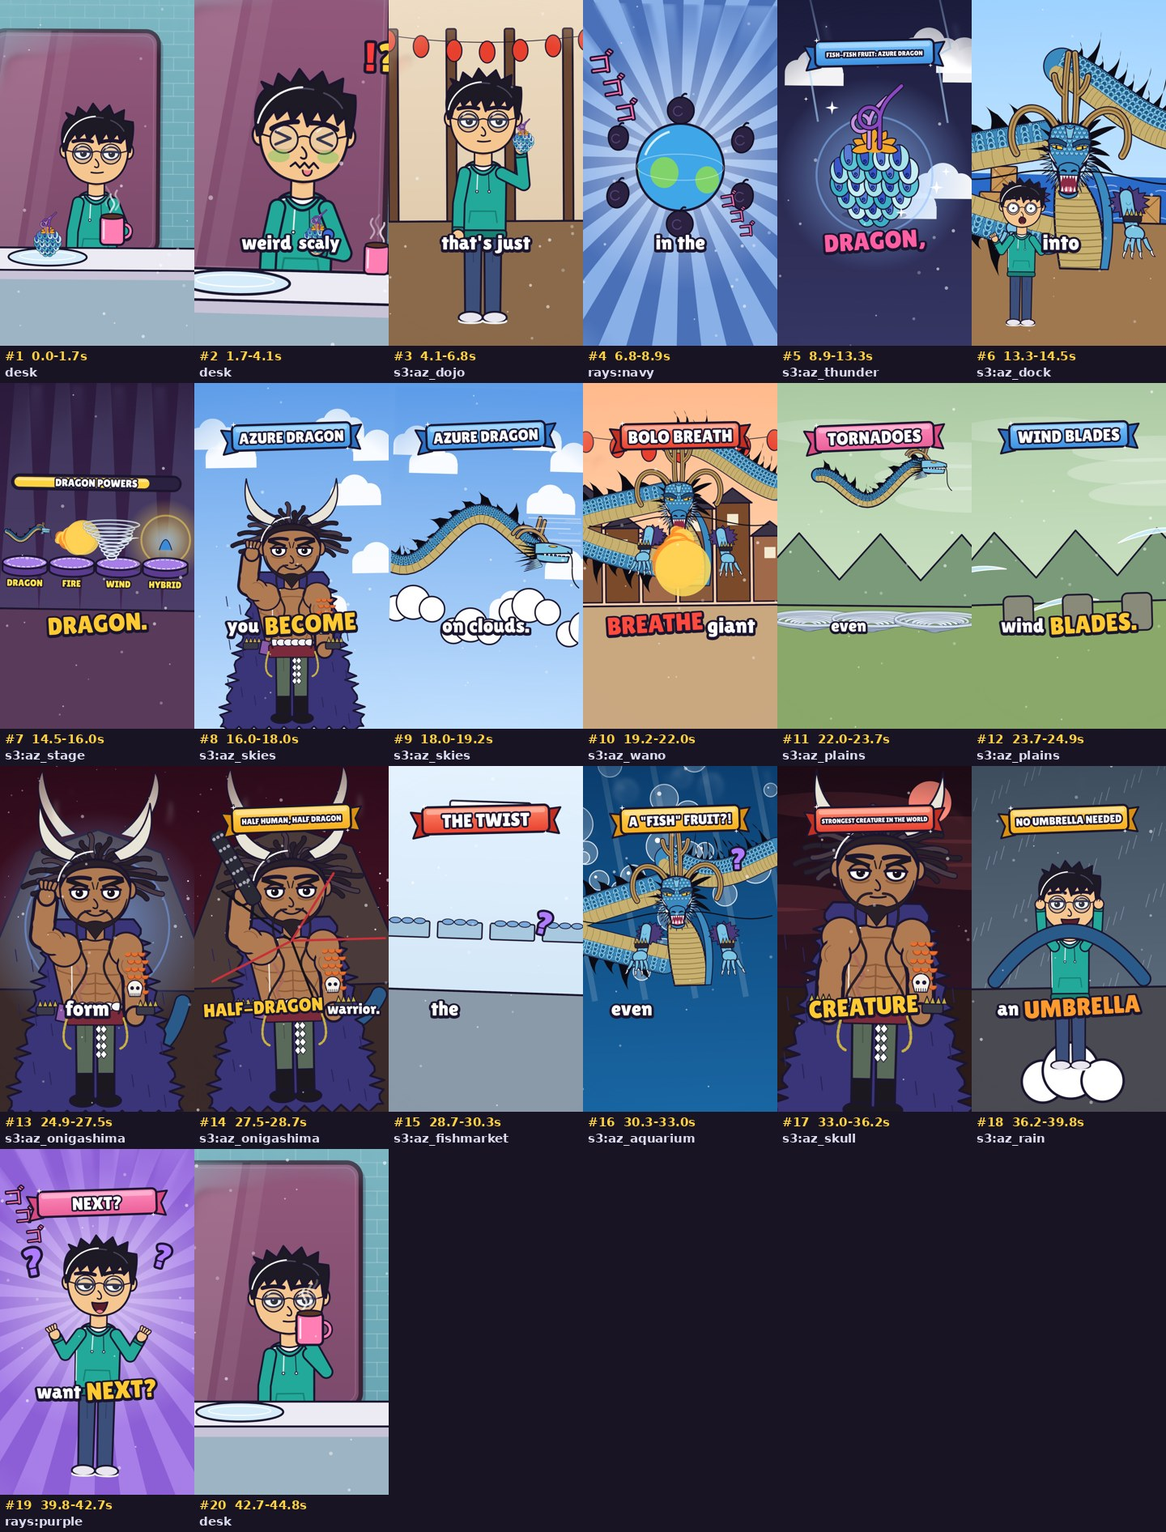
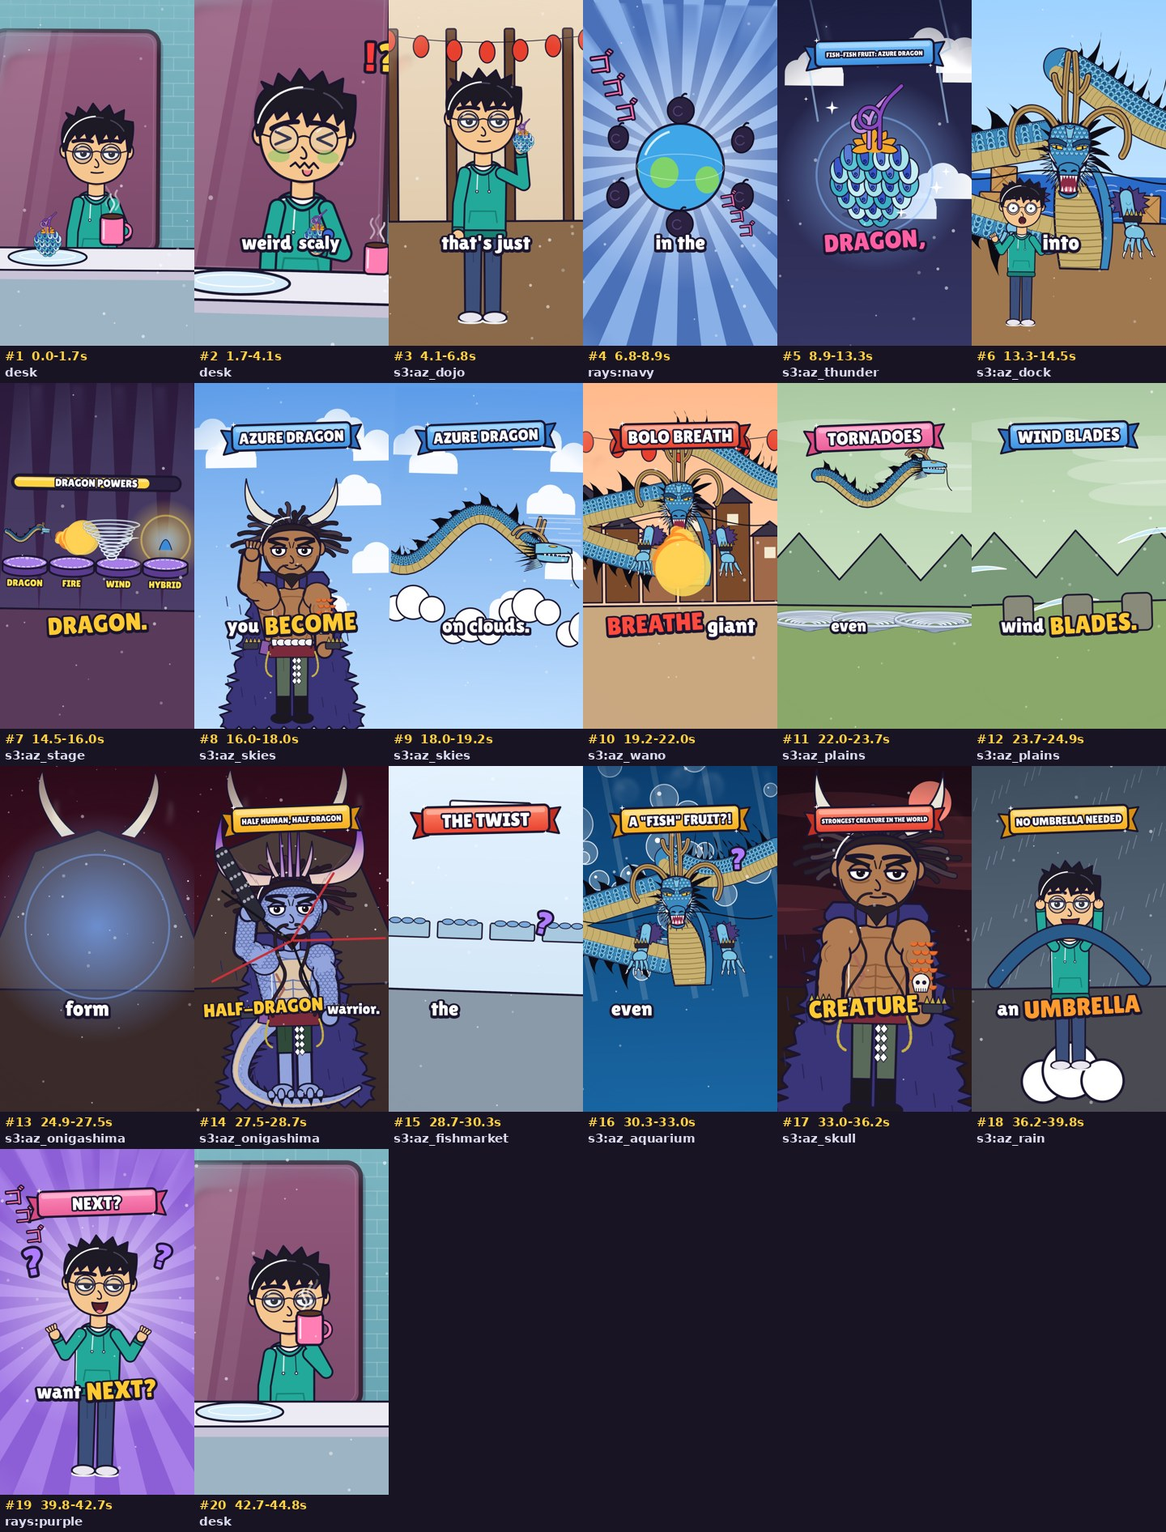
Kaido hybrid form from the user's ref: blue scales, purple-tipped horns and spikes, dragon tail, clawed feet
Claude-Session: https://claude.ai/code/session_01LedSfqc1zbW4UvWfiqXE3c

Changed region(s): [[0.0, 0.5301, 0.1562, 0.7484], [0.1875, 0.5301, 0.3438, 0.7484]]

diff --git a/engine/art.js b/engine/art.js
@@ -217,6 +217,28 @@ export const POSES = {
 // hand / head position of a figure drawn with its feet at (cx, fy), scale s, optionally mirrored
 export function figPoint(lx, ly, cx, fy, s, flip = false) { const dx = (lx + FIG.OX - FIG.W / 2) * s; return [cx + (flip ? -dx : dx), fy + (ly + FIG.OY - FIG.FEET) * s]; }
 
+function scaleFill(x, x0, y0, x1, y1, col, keep = () => true, sz = 30) { // rows of overlapping dragon scales (call inside a clip)
+  for (let r = 0, y = y0; y < y1; r++, y += sz * 0.7) for (let xx = x0 + (r % 2) * sz / 2; xx < x1; xx += sz) { if (!keep(xx, y)) continue;
+    x.beginPath(); x.arc(xx, y, sz * 0.55, 0.05 * Math.PI, 0.95 * Math.PI); x.lineWidth = 5; x.strokeStyle = col; x.stroke(); }
+}
+function dragonTail(x) { // thick scaly tail from behind the hips sweeping down to the ground on his right, dark fin along the top, tan belly
+  const K = [[300, 1040], [300, 1040], [80, 1260], [20, 1500], [230, 1650], [600, 1660], [820, 1570], [820, 1570]], cr = (a, b, c, d, u) => 0.5 * (2 * b + (-a + c) * u + (2 * a - 5 * b + 4 * c - d) * u * u + (-a + 3 * b - 3 * c + d) * u * u * u), pts = [];
+  for (let i = 1; i < K.length - 2; i++) for (let k = 0; k < 8; k++) { const u = k / 8, n = pts.length / 40; pts.push([cr(K[i - 1][0], K[i][0], K[i + 1][0], K[i + 2][0], u), cr(K[i - 1][1], K[i][1], K[i + 1][1], K[i + 2][1], u), 130 * (1 - n) + 16]); }
+  x.lineCap = 'round'; x.lineJoin = 'round';
+  for (let i = 1; i < pts.length; i++) { const [ax, ay, aw] = pts[i - 1], [bx, by] = pts[i], a = Math.atan2(by - ay, bx - ax), nx = -Math.sin(a), ny = Math.cos(a);
+    if (i % 2) { x.beginPath(); x.moveTo(ax - nx * aw * 0.5, ay - ny * aw * 0.5); x.lineTo(ax - nx * aw * 1.0 - Math.cos(a) * 20, ay - ny * aw * 1.0 - Math.sin(a) * 20); x.lineTo(bx - nx * aw * 0.45, by - ny * aw * 0.45); x.closePath(); fs(x, '#2a1f2e', 6); } }
+  for (const [lw, col] of [[22, OL], [0, '#93a4dc']]) for (let i = 1; i < pts.length; i++) { const [ax, ay, aw] = pts[i - 1], [bx, by] = pts[i]; x.beginPath(); x.moveTo(ax, ay); x.lineTo(bx, by); x.lineWidth = aw + lw; x.strokeStyle = col; x.stroke(); }
+  for (let i = 1; i < pts.length; i++) { const [ax, ay, aw] = pts[i - 1], [bx, by] = pts[i], a = Math.atan2(by - ay, bx - ax), nx = -Math.sin(a), ny = Math.cos(a);
+    x.beginPath(); x.moveTo(ax + nx * aw * 0.3, ay + ny * aw * 0.3); x.lineTo(bx + nx * aw * 0.3, by + ny * aw * 0.3); x.lineWidth = aw * 0.3; x.strokeStyle = '#dcc4a8'; x.stroke();
+    if (i % 2 === 0) { x.beginPath(); x.moveTo(bx + nx * aw * 0.05, by + ny * aw * 0.05); x.lineTo(bx + nx * aw * 0.45, by + ny * aw * 0.45); x.lineWidth = 4; x.strokeStyle = '#a88a6a'; x.stroke(); }
+    if (i % 2) { x.beginPath(); x.arc(bx - nx * aw * 0.2, by - ny * aw * 0.2, aw * 0.18, a + 0.3, a + 2.8); x.lineWidth = 4; x.strokeStyle = '#6e7fbe'; x.stroke(); } }
+}
+function clawFoot(x, cx, cy, sd) { // blue scaly dragon foot with three long toes and black talons
+  x.beginPath(); x.ellipse(cx, cy - 10, 70, 40, 0, 0, 7); fs(x, '#93a4dc', 11);
+  for (const [dx, len] of [[-60, 70], [0, 90], [60, 70]]) { const tx = cx + dx * 1.1 + sd * 10, ty = cy + 20;
+    x.beginPath(); x.ellipse(tx, ty, 24, len * 0.45, dx * 0.004, 0, 7); fs(x, '#93a4dc', 9);
+    x.beginPath(); x.moveTo(tx - 16, ty + len * 0.35); x.quadraticCurveTo(tx + 4, ty + len * 0.75, tx + 4, ty + len * 0.85); x.quadraticCurveTo(tx + 14, ty + len * 0.5, tx + 16, ty + len * 0.3); x.closePath(); fs(x, '#14121a', 6); }
+}
 function drawLegs(x, L, pose) {
   const pants = L.pants, shoe = L.shoe;
   if ((POSES[pose] || {}).legs === 'jump') { // tucked mid-air jump (traced from the Snakeman ref): knees flared wide, shins angled in under the body, toes pointing down
@@ -243,6 +265,7 @@ function drawLegs(x, L, pose) {
   if (L.stripedLegs) { x.save(); x.beginPath(); x.rect(x0 + 6, 1060, x1 - x0 - 12, 520); x.clip(); x.fillStyle = OL; for (let k = 1080; k < 1580; k += 50) x.fillRect(x0, k, x1 - x0, 25); x.restore(); }
   if (L.bandages) { x.strokeStyle = '#f4f4f8'; x.lineWidth = 14; for (let k = 0; k < 4; k++) { x.beginPath(); x.moveTo(x0 + 6, 1230 + k * 22); x.lineTo(x1 - 6, 1238 + k * 22); x.stroke(); } }
     if (L.boots) { const by = L.tallBoots ? 1320 : 1440; x.beginPath(); x.rect(x0 + 4, by, x1 - x0 - 8, 1585 - by); fs(x, shoe, 11); if (L.tallBoots) { rrect(x, x0 - 10, 1500, x1 - x0 + 20, 40, 10); fs(x, '#6a5a8a', 8); } }
+    if (L.dragonFeet) { clawFoot(x, (x0 + x1) / 2 + (x0 < 380 ? -24 : 24), 1590, x0 < 380 ? -1 : 1); continue; }
     x.beginPath(); x.ellipse((x0 + x1) / 2 + (x0 < 380 ? -14 : 14), 1600, 76, 36, 0, 0, 7); fs(x, shoe, 12);
     if (!L.boots) { x.beginPath(); x.ellipse((x0 + x1) / 2 + (x0 < 380 ? -14 : 14), 1622, 74, 14, 0, 0, Math.PI); x.lineWidth = 12; x.strokeStyle = '#f4f4f4'; x.stroke(); }
   }
@@ -446,6 +469,8 @@ function drawTorso(x, L) {
     rrect(x, 220, 1010, 320, 56, 10); fs(x, '#3a3a4a', 8); x.fillStyle = '#a8b0c8'; for (let k = 0; k < 8; k++) { x.beginPath(); x.arc(245 + k * 38, 1038, 7, 0, 7); x.fill(); } x.beginPath(); x.arc(380, 1038, 40, 0, 7); fs(x, '#f4f4f8', 7); x.fillStyle = OL; for (const sd of [-1, 1]) { x.beginPath(); x.arc(380 + sd * 13, 1030, 8, 0, 7); x.fill(); }
   } else if (L.top === 'kaido') { // huge V-shaped muscular torso, scar, white rope belt, purple sash, maroon waistband, chains
     x.beginPath(); x.moveTo(110, 700); x.quadraticCurveTo(380, 570, 650, 700); x.lineTo(570, 1050); x.lineTo(190, 1050); x.closePath(); fs(x, L.skin, 12);
+    if (L.scales) { x.save(); x.clip(); x.beginPath(); x.moveTo(230, 640); x.quadraticCurveTo(380, 760, 530, 640); x.lineTo(470, 1060); x.lineTo(290, 1060); x.closePath(); x.fillStyle = L.chestSkin; x.fill(); x.lineWidth = 8; x.strokeStyle = L.skinD; x.stroke();
+      scaleFill(x, 100, 640, 660, 1060, L.skinD, (px, py) => Math.abs(px - 380) > 110 + (py - 640) * 0.25 || py < 650 + Math.abs(px - 380) * 0.4 - 60); x.restore(); }
     x.strokeStyle = L.skinD; x.lineWidth = 8; x.lineCap = 'round'; for (const sd of [-1, 1]) { x.beginPath(); x.moveTo(380, 700); x.quadraticCurveTo(380 + sd * 210, 700, 380 + sd * 230, 820); x.quadraticCurveTo(380 + sd * 130, 870, 380, 840); x.stroke(); }
     x.beginPath(); x.moveTo(380, 840); x.lineTo(380, 1030); for (const yy of [900, 960]) { x.moveTo(290, yy); x.quadraticCurveTo(335, yy + 12, 375, yy); x.moveTo(385, yy); x.quadraticCurveTo(425, yy + 12, 470, yy); } x.moveTo(220, 880); x.quadraticCurveTo(270, 980, 280, 1030); x.moveTo(540, 880); x.quadraticCurveTo(490, 980, 480, 1030); x.stroke();
     x.beginPath(); x.moveTo(270, 800); x.lineTo(320, 900); x.lineTo(280, 960); x.lineTo(300, 1010); x.lineWidth = 16; x.strokeStyle = '#a86a5a'; x.stroke();
@@ -496,6 +521,8 @@ function drawArms(x, L, pose) {
       bulge(sx, sy + 10, 62 * bw * 0.85); bulge(sx + (ex - sx) * 0.55, sy + (ey - sy) * 0.55, 48 * bw * 0.85); bulge(ex + (hx - ex) * 0.35, ey + (hy - ey) * 0.35, 40 * bw * 0.85);
       x.beginPath(); x.moveTo(sx, sy); x.lineTo(ex, ey); x.lineTo(hx, hy); x.lineWidth = 64 * bw; x.strokeStyle = armCol; x.stroke();
       x.strokeStyle = L.skinD || OL; x.lineWidth = 5; x.beginPath(); x.arc(sx + (ex - sx) * 0.55, sy + (ey - sy) * 0.55, 30 * bw, Math.atan2(ey - sy, ex - sx) + 0.6, Math.atan2(ey - sy, ex - sx) + 2.4); x.stroke(); }
+    if (L.scales) { x.save(); x.beginPath(); for (const [ax, ay, bx2, by2] of [[sx, sy, ex, ey], [ex, ey, hx, hy]]) { const a = Math.atan2(by2 - ay, bx2 - ax), w = 34 * bw, nx = -Math.sin(a) * w, ny = Math.cos(a) * w; x.moveTo(ax + nx, ay + ny); x.lineTo(bx2 + nx, by2 + ny); x.lineTo(bx2 - nx, by2 - ny); x.lineTo(ax - nx, ay - ny); x.closePath(); }
+      if (L.buff) { x.moveTo(sx + 62 * bw * 0.85, sy + 10); x.arc(sx, sy + 10, 62 * bw * 0.85, 0, 7); } x.clip(); scaleFill(x, Math.min(sx, ex, hx) - 120, Math.min(sy, ey, hy) - 120, Math.max(sx, ex, hx) + 120, Math.max(sy, ey, hy) + 60, L.skinD); x.restore(); }
     if (L.hakiArms) { x.beginPath(); x.moveTo(sx, sy); x.lineTo(ex, ey); x.lineTo(hx, hy); x.lineWidth = 64 * bw; x.strokeStyle = '#1b1820'; x.stroke(); x.strokeStyle = '#d8304a'; x.lineWidth = 5; for (const f of [0.25, 0.5, 0.75]) { const mx = sx + (hx - sx) * f, my = sy + (hy - sy) * f; x.beginPath(); x.moveTo(mx - 20, my - 10); x.quadraticCurveTo(mx, my + 20, mx + 22, my - 6); x.stroke(); } }
     if (L.sleeveSkin) { x.beginPath(); x.moveTo(ex, ey); x.lineTo(hx, hy); x.lineWidth = 64; x.strokeStyle = L.skin; x.stroke(); x.beginPath(); x.moveTo(sx, sy); x.lineTo(ex, ey); x.lineWidth = 64; x.strokeStyle = armCol; x.stroke(); }
     if (L.heartCol) { for (const [ax, ay] of [[sx + (ex - sx) * 0.35, sy + (ey - sy) * 0.35], [sx + (ex - sx) * 0.78, sy + (ey - sy) * 0.78], [ex + (hx - ex) * 0.5, ey + (hy - ey) * 0.5]]) { x.save(); x.translate(ax, ay); x.beginPath(); x.moveTo(0, 12); x.bezierCurveTo(-22, -2, -10, -18, 0, -6); x.bezierCurveTo(10, -18, 22, -2, 0, 12); x.fillStyle = L.heartCol; x.fill(); x.restore(); } }
@@ -556,6 +583,7 @@ export function drawPerson({ who = 'host', expr = 'calm', mouth = 0, blink = fal
   if (L.twinTails) for (const sd of [-1, 1]) { x.beginPath(); x.moveTo(380 + sd * 200, 200); x.bezierCurveTo(380 + sd * 380, 300, 380 + sd * 380, 900, 380 + sd * 300, 1150); x.lineTo(380 + sd * 230, 1100); x.bezierCurveTo(380 + sd * 280, 800, 380 + sd * 250, 400, 380 + sd * 150, 260); x.closePath(); fs(x, L.hair, 10); }
   if (L.braids) crackerHair(x, L);
   if (L.sideCape) sideCape(x);
+  if (L.dragonTail) dragonTail(x);
   if (L.crackerLegs) crackerLegs(x, L); else drawLegs(x, L, pose);
   drawTorso(x, L);
   if (L.xScar) { x.strokeStyle = '#b86a50'; x.lineWidth = 12; x.lineCap = 'round'; x.beginPath(); x.moveTo(318, 700); x.lineTo(442, 800); x.moveTo(442, 700); x.lineTo(318, 800); x.stroke(); }   // Luffy's X scar from Marineford
@@ -570,6 +598,7 @@ export function drawPerson({ who = 'host', expr = 'calm', mouth = 0, blink = fal
   const head = L.longFace ? () => { x.beginPath(); x.moveTo(178, 320); x.bezierCurveTo(178, 105, 582, 105, 582, 320); x.bezierCurveTo(582, 520, 500, 650, 380, 656); x.bezierCurveTo(260, 650, 178, 520, 178, 320); x.closePath(); }
     : () => { x.beginPath(); x.moveTo(168, 320); x.bezierCurveTo(168, 115, 592, 115, 592, 320); x.bezierCurveTo(592, 470, 520, 560, 380, 566); x.bezierCurveTo(240, 560, 168, 470, 168, 320); x.closePath(); };
   head(); fs(x, L.skin, 12);
+  if (L.scales) { x.save(); head(); x.clip(); scaleFill(x, 170, 150, 600, 560, L.skinD, (px, py) => py < 270 || Math.abs(px - 380) > 160, 24); x.restore(); }
   if (L.sideburns) { x.save(); head(); x.clip(); x.fillStyle = L.hair; for (const sd of [-1, 1]) { x.beginPath(); x.moveTo(380 + sd * 215, 200); x.lineTo(380 + sd * 160, 200); x.quadraticCurveTo(380 + sd * 165, 380, 380 + sd * 150, 520); x.lineTo(380 + sd * 205, 470); x.closePath(); x.fill(); } x.restore(); head(); x.lineWidth = 12; x.strokeStyle = OL; x.stroke(); }
   if (L.thinBurns) { x.save(); head(); x.clip(); x.fillStyle = L.hair; for (const sd of [-1, 1]) { x.beginPath(); x.moveTo(380 + sd * 205, 200); x.lineTo(380 + sd * 168, 210); x.quadraticCurveTo(380 + sd * 160, 360, 380 + sd * 150, 470); x.lineTo(380 + sd * 172, 478); x.quadraticCurveTo(380 + sd * 190, 360, 380 + sd * 205, 200); x.closePath(); x.fill(); } x.restore(); head(); x.lineWidth = 12; x.strokeStyle = OL; x.stroke(); }
   if (L.angryBrows) { for (const sd of [-1, 1]) { x.beginPath(); x.moveTo(380 + sd * 40, 318); x.lineTo(380 + sd * 170, 270); x.lineTo(380 + sd * 175, 300); x.lineTo(380 + sd * 45, 342); x.closePath(); x.fillStyle = '#1b1820'; x.fill(); } x.strokeStyle = '#1b1820'; x.lineWidth = 7; x.beginPath(); x.moveTo(362, 300); x.lineTo(372, 340); x.moveTo(398, 300); x.lineTo(388, 340); x.stroke(); }
@@ -792,6 +821,14 @@ export function drawPerson({ who = 'host', expr = 'calm', mouth = 0, blink = fal
     x.beginPath(); x.moveTo(140, 300); x.bezierCurveTo(130, -60, 630, -60, 620, 300); x.closePath(); fs(x, '#e8607a', 12); rrect(x, 120, 250, 520, 90, 30); fs(x, '#c84862', 11); x.strokeStyle = '#ffffff'; x.lineWidth = 30; x.lineCap = 'round'; x.beginPath(); x.moveTo(330, 90); x.lineTo(430, 190); x.moveTo(430, 90); x.lineTo(330, 190); x.stroke(); }
   if (L.blueNose) { x.beginPath(); x.ellipse(390, 430, 26, 18, 0, 0, 7); fs(x, '#3f6fd8', 6); }
   if (L.hat === 'peronaCrown') { rrect(x, 290, 0, 180, 110, 10); fs(x, '#1b1530', 9); x.fillStyle = '#d8343a'; for (let k = 0; k < 4; k++) x.fillRect(305 + k * 42, 10, 20, 90); rrect(x, 280, 100, 200, 30, 8); fs(x, '#e8c84a', 6); }
+  if (L.hybridHorns) { // huge horns sweeping out then up (pale base, purple tips), three tall purple spikes and two small antlers
+    const hg = x.createLinearGradient(0, 200, 0, -330); hg.addColorStop(0, '#ecd2c0'); hg.addColorStop(0.35, '#d0a8c4'); hg.addColorStop(0.65, '#8a4ac4'); hg.addColorStop(1, '#4a1a90');
+    for (const sd of [-1, 1]) { x.beginPath(); x.moveTo(380 + sd * 140, 200); x.bezierCurveTo(380 + sd * 520, 240, 380 + sd * 560, 0, 380 + sd * 440, -300); x.bezierCurveTo(380 + sd * 480, 20, 380 + sd * 380, 130, 380 + sd * 120, 130); x.closePath(); fs(x, hg, 10);
+      x.strokeStyle = 'rgba(120,80,110,0.45)'; x.lineWidth = 5; for (let k = 0; k < 5; k++) { const yy = 190 - k * 40; x.beginPath(); x.moveTo(380 + sd * (200 + k * 30), yy + 30); x.lineTo(380 + sd * (230 + k * 38), yy - 30); x.stroke(); }
+      x.beginPath(); x.moveTo(380 + sd * 100, 150); x.quadraticCurveTo(380 + sd * 170, 40, 380 + sd * 150, -90); x.quadraticCurveTo(380 + sd * 130, 40, 380 + sd * 70, 140); x.closePath(); fs(x, hg, 8); }
+    const sg = x.createLinearGradient(0, 150, 0, -360); sg.addColorStop(0, '#c8a0c8'); sg.addColorStop(0.4, '#9a5ad0'); sg.addColorStop(1, '#4a1a90');
+    for (const [dx, top] of [[-50, -280], [0, -360], [50, -280]]) { x.beginPath(); x.moveTo(380 + dx - 16, 150); x.lineTo(380 + dx * 1.3, top); x.lineTo(380 + dx + 16, 150); x.closePath(); fs(x, sg, 8); }
+  }
   if (L.bullHorns) for (const sd of [-1, 1]) { x.beginPath(); x.moveTo(380 + sd * 150, 170); x.quadraticCurveTo(380 + sd * 380, 120, 380 + sd * 330, -170); x.quadraticCurveTo(380 + sd * 300, 40, 380 + sd * 110, 120); x.closePath(); fs(x, '#e8e4d8', 9); }
   if (L.furNeck) { for (let r = 0; r < 4; r++) { x.beginPath(); for (let i = 0; i <= 18; i++) { const a = Math.PI * (i / 18), rr = (r % 2 ? 1.0 : 0.92); x.lineTo(380 + Math.cos(a) * 280 * rr, 600 - r * 55 + Math.sin(a) * 60 * rr + (i % 2) * 14); } for (let i = 18; i >= 0; i--) { const a = Math.PI * (i / 18); x.lineTo(380 + Math.cos(a) * 260, 600 - r * 55 + 30 + Math.sin(a) * 40); } x.closePath(); fs(x, r % 2 ? '#1b1820' : '#f4ecd8', 7); } }
   if (L.goatHorns) for (const sd of [-1, 1]) { x.beginPath(); x.moveTo(380 + sd * 50, 120); x.quadraticCurveTo(380 + sd * 40, -40, 380 + sd * 150, -70); x.quadraticCurveTo(380 + sd * 90, -10, 380 + sd * 100, 130); x.closePath(); fs(x, '#a89a4a', 8); }
@@ -843,7 +880,7 @@ export function drawPerson({ who = 'host', expr = 'calm', mouth = 0, blink = fal
   if (L.spikeCuffs && (POSES[pose] || POSES.idle).R[1][1] > 1000) for (const hx of (L.buff ? [[160 - L.buff * 54, 1070], [600 + L.buff * 54, 1070]] : [[160, 1070], [600, 1070]])) { rrect(x, hx[0] - 55, hx[1] - 30, 110, 50, 12); fs(x, '#3a3a4a', 7); for (let k = 0; k < 4; k++) { x.beginPath(); x.moveTo(hx[0] - 45 + k * 30, hx[1] - 30); x.lineTo(hx[0] - 30 + k * 30, hx[1] - 70); x.lineTo(hx[0] - 15 + k * 30, hx[1] - 30); x.closePath(); fs(x, '#c8b040', 5); } }
   if (L.dragonSleeve && (POSES[pose] || POSES.idle).R[1][1] > 1000) { x.save(); x.beginPath(); x.rect(560, 640, 150, 330); x.clip(); for (let r = 0; r < 7; r++) for (let k = 0; k < 3; k++) { x.beginPath(); x.arc(575 + k * 42 + (r % 2) * 20, 720 + r * 45, 22, 0, Math.PI); x.fillStyle = '#e8702e'; x.fill(); x.lineWidth = 4; x.strokeStyle = '#a03a1a'; x.stroke(); } x.restore(); }
   if (L.skullTat && (POSES[pose] || POSES.idle).R[1][1] > 1000) { const sx = 618, sy = 930; x.beginPath(); x.arc(sx, sy, 46, Math.PI, 0); x.lineTo(sx + 32, sy + 50); x.lineTo(sx - 32, sy + 50); x.closePath(); fs(x, '#f4f0e8', 6); x.fillStyle = OL; for (const d of [-17, 17]) { x.beginPath(); x.arc(sx + d, sy, 11, 0, 7); x.fill(); } for (let k = -2; k <= 2; k++) x.fillRect(sx + k * 12 - 2, sy + 30, 4, 18); }
-  if (L.whiskers) for (const sd of [-1, 1]) { x.beginPath(); x.moveTo(380 + sd * 30, 470); x.bezierCurveTo(380 + sd * 150, 470, 380 + sd * 120, 640, 380 + sd * 60, 760); x.bezierCurveTo(380 + sd * 10, 880, 380 + sd * 200, 960, 380 + sd * 140, 1080); x.lineCap = 'round'; x.lineWidth = 13; x.strokeStyle = OL; x.stroke(); x.lineWidth = 7; x.strokeStyle = '#2a2028'; x.stroke(); }
+  if (L.whiskers) for (const sd of [-1, 1]) { x.beginPath(); x.moveTo(380 + sd * 30, 470); x.bezierCurveTo(380 + sd * 150, 470, 380 + sd * 120, 640, 380 + sd * 60, 760); x.bezierCurveTo(380 + sd * 10, 880, 380 + sd * 200, 960, 380 + sd * 140, 1080); x.lineCap = 'round'; x.lineWidth = L.thickWhiskers ? 24 : 13; x.strokeStyle = OL; x.stroke(); x.lineWidth = L.thickWhiskers ? 15 : 7; x.strokeStyle = '#2a2028'; x.stroke(); }
   if (L.furScarf) for (let r = 0; r < 4; r++) { const y = 640 - r * 52; x.beginPath(); for (let i = 0; i <= 22; i++) { const a = Math.PI * (i / 22), w = 300 - r * 30; x.lineTo(380 - Math.cos(a) * w, y + Math.sin(a) * 50 + ((i % 2) ? 22 : 0)); } for (let i = 22; i >= 0; i--) { const a = Math.PI * (i / 22), w = 280 - r * 30; x.lineTo(380 - Math.cos(a) * w, y - 50 + Math.sin(a) * 30 - ((i % 2) ? 18 : 0)); } x.closePath(); fs(x, r % 2 ? '#1b1820' : '#f4ecd8', 7); }
   if (L.coatSleeves) for (const sd of [-1, 1]) { x.beginPath(); x.moveTo(380 + sd * 230, 700); x.quadraticCurveTo(380 + sd * 330, 900, 380 + sd * 320, 1130); x.lineTo(380 + sd * 240, 1140); x.quadraticCurveTo(380 + sd * 250, 920, 380 + sd * 200, 730); x.closePath(); fs(x, L.cloakCol || '#f4f4f8', 10); rrect(x, 380 + sd * 280 - 48, 1110, 96, 70, 16); fs(x, '#f4e070', 8); }
   if (L.metalArm) { x.save(); x.translate(560, 720); for (let i = 0; i < 4; i++) { rrect(x, -50, i * 100, 110, 90, 16); fs(x, '#c8ccd8', 9); x.beginPath(); x.arc(5, i * 100 + 45, 14, 0, 7); fs(x, '#8a8fa0', 4); } rrect(x, -70, 400, 150, 130, 24); fs(x, '#c8ccd8', 10); x.restore(); }
@@ -1104,3 +1141,7 @@ export function heart(x, cx, cy, r, col = '#e8303c') {
   fs(x, col, 6); x.fillStyle = 'rgba(255,255,255,0.6)'; x.beginPath(); x.arc(-r * 0.45, -r * 0.35, r * 0.18, 0, 7); x.fill(); x.restore();
 }
 LOOKS.lawKid_cured = { ...LOOKS.lawKid, spots: false };
+
+// Kaido's hybrid (half dragon) form, from refs/azure/kaido_hybrid.png: blue scaly skin with a tan chest, huge purple-tipped horns, dragon tail and clawed feet, green pants
+LOOKS.kaidoHybrid = { ...LOOKS.kaido, skin: '#93a4dc', skinD: '#5e6fae', chestSkin: '#dcc4a8', arm: '#93a4dc', scales: true, hybridHorns: true, bullHorns: false, skullTat: false, dragonSleeve: false,
+  pants: '#2f4a3a', shorts: true, boots: false, dragonFeet: true, dragonTail: true, thickWhiskers: true, hair: '#2a1a24', hairL: '#4a2a3a' };

diff --git a/shorts/azure/story.js b/shorts/azure/story.js
@@ -168,12 +168,12 @@ export function buildShots(TL) {
   const p3 = T.shots[T.shots.length - 1]; p3.banners = [['WIND BLADES', 'blue', tBlades, end('power3')]]; p3.sfx = [[0.1, 'slash'], [0.4, 'slash']]; p3.draw = function (x, S) { for (let i = 0; i < 3; i++) { const u = ((S.T - S.t0) * 1.4 + i / 3) % 1; windBlade(x, lerp(-200, 1280, u), 900 + i * 180, 1.2, -0.15); } for (let i = 0; i < 3; i++) { A.rrect(x, 180 + i * 320, 1200, 160, 200, 30); A.fs(x, '#8a8a7a', 9); } };
 
   const tWarrior = W('peak', /^warrior/) - 0.1;
-  addSplit({ name: 'Peak (Onigashima skull rooftop): wind icon gives way to the hybrid icon, blue halo; gold HYBRID FORM banner; Kaido grows scales, horns and a long dragon tail', t0: st('peak'), t1: end('peak'), bg: 's3:az_onigashima',
+  addSplit({ name: 'Peak (Onigashima skull rooftop): wind icon gives way to the hybrid icon, blue halo; gold HYBRID FORM banner; hybrid Kaido (ref: refs/azure/kaido_hybrid.png) - blue scales, huge purple-tipped horns, dragon tail and clawed feet', t0: st('peak'), t1: end('peak'), bg: 's3:az_onigashima',
     cam: [[1.0, 540, 980, 0], [1.08, 540, 950, 0.02]], banners: [['HALF HUMAN, HALF DRAGON', 'gold', W('peak', /^half/) - 0.1, end('peak'), 'slide']], sfx: [[0, 'evolve'], [W('peak', /^half/) - st('peak'), 'charge']],
     draw(x, S) { halo(x, 540, 900, 620, '120,170,255', S.T); if (S.t < 0.5) { A.glowRing(x, 540, 820, 320 * prog(S.t, 0, 0.5), 1 - prog(S.t, 0.2, 0.5)); evolve(x, S, 3, 4, 540, 820, 1.5, 0.45, azureIcon); return; }
-      const k = prog(S.T, W('peak', /^half/), tWarrior + 0.3); x.beginPath(); x.moveTo(600, 1500); x.quadraticCurveTo(900, 1700 - 200 * k, 1000, 1300); x.lineCap = 'round'; x.lineWidth = 90; x.strokeStyle = A.OL; x.stroke(); x.lineWidth = 74; x.strokeStyle = '#2a5a8a'; x.stroke(); person(x, S, 'kaido', 'grin', 540, 1860, 0.89, { seed: 7, pose: 'raise' }); } },
+      person(x, S, 'kaidoHybrid', 'grin', 540, 1840, 0.8, { seed: 7, pose: 'raise', pop: W('peak', /^half/) - 0.1 }); } },
     tWarrior, [[1.0, 540, 1000, -0.02], [1.08, 540, 980, -0.035]], 'Peak warrior (same rooftop): hybrid Kaido swings his spiked club with Conqueror\'s Haki lightning around it; shake');
-  const pk = T.shots[T.shots.length - 1]; pk.sfx = [[0, 'haki'], [0.3, 'impact']]; pk.draw = function (x, S) { x.beginPath(); x.moveTo(600, 1500); x.quadraticCurveTo(900, 1500, 1000, 1300); x.lineCap = 'round'; x.lineWidth = 90; x.strokeStyle = A.OL; x.stroke(); x.lineWidth = 74; x.strokeStyle = '#2a5a8a'; x.stroke(); const kd = person(x, S, 'kaido', 'grin', 540, 1860, 0.89, { seed: 7, pose: 'raise' }); x.save(); x.translate(kd.hand.L[0], kd.hand.L[1]); x.rotate(-0.5); A.rrect(x, -40, -420, 80, 440, 30); A.fs(x, '#2a2a36', 8); x.fillStyle = '#a8a8b8'; for (let r = 0; r < 5; r++) for (const dx of [-24, 0, 24]) { x.beginPath(); x.arc(dx, -390 + r * 70, 9, 0, 7); x.fill(); } x.restore(); for (let i = 0; i < 5; i++) { x.beginPath(); x.moveTo(540, 1000); x.lineTo(540 + Math.cos(i * 1.3) * 500, 1000 + Math.sin(i * 1.3) * 400); x.lineWidth = 12; x.strokeStyle = i % 2 ? '#14121a' : '#c8303a'; x.stroke(); } if (S.T < S.t0 + 0.3) S.shake = 0.6; };
+  const pk = T.shots[T.shots.length - 1]; pk.sfx = [[0, 'haki'], [0.3, 'impact']]; pk.draw = function (x, S) { const kd = person(x, S, 'kaidoHybrid', 'grin', 540, 1840, 0.8, { seed: 7, pose: 'raise' }); x.save(); x.translate(kd.hand.L[0], kd.hand.L[1]); x.rotate(-0.5); A.rrect(x, -40, -420, 80, 440, 30); A.fs(x, '#2a2a36', 8); x.fillStyle = '#a8a8b8'; for (let r = 0; r < 5; r++) for (const dx of [-24, 0, 24]) { x.beginPath(); x.arc(dx, -390 + r * 70, 9, 0, 7); x.fill(); } x.restore(); for (let i = 0; i < 5; i++) { x.beginPath(); x.moveTo(540, 1000); x.lineTo(540 + Math.cos(i * 1.3) * 500, 1000 + Math.sin(i * 1.3) * 400); x.lineWidth = 12; x.strokeStyle = i % 2 ? '#14121a' : '#c8303a'; x.stroke(); } if (S.T < S.t0 + 0.3) S.shake = 0.6; };
 
   add({ name: 'Twist (fish market): push-in with roll, low sting; red THE TWIST banner', t0: st('twist'), t1: end('twist'), bg: 's3:az_fishmarket', twist: true,
     cam: [[1.0, 540, 960, 0], [1.28, 540, 1000, 0.07]], banners: [['THE TWIST', 'red', W('twist', /^twist/) - 0.1, end('twist')]], sfx: [[0, 'sting']],
